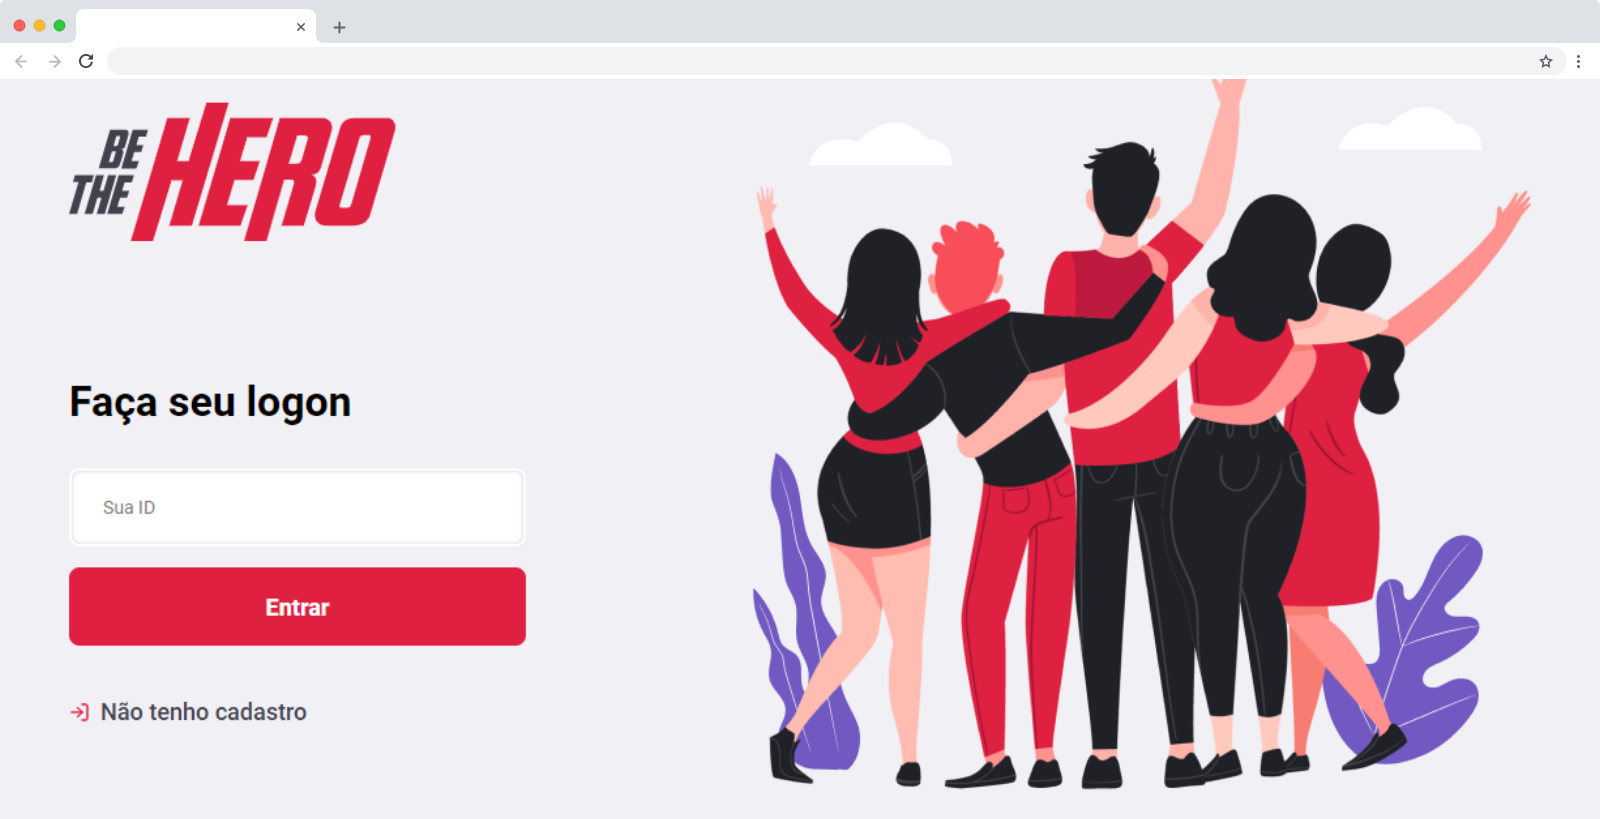
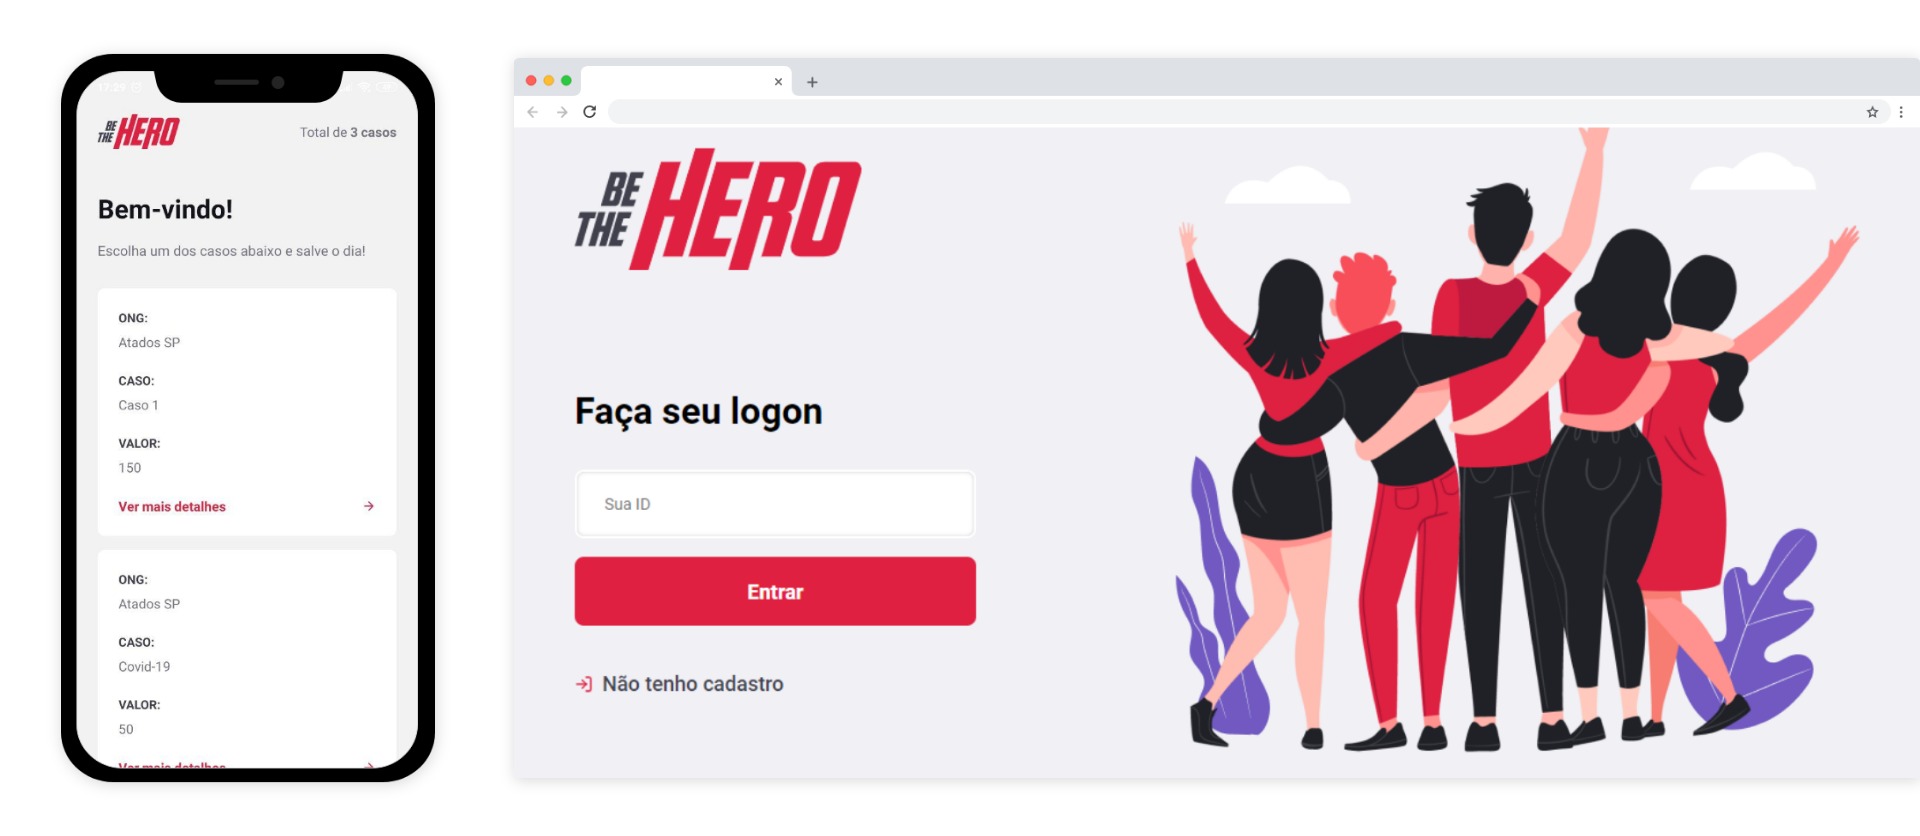
change mockup and add env to mobile

diff --git a/backend/knexfile.js b/backend/knexfile.js
@@ -1,47 +1,47 @@
 // Update with your config settings.
-const config = require("./src/config");
+const config = require('./src/config');
 
 module.exports = {
   development: {
-    client: "sqlite3",
+    client: 'sqlite3',
     connection: {
-      filename: "./src/database/db.sqlite"
+      filename: './src/database/db.sqlite'
     },
     migrations: {
-      directory: "./src/database/migrations"
+      directory: './src/database/migrations'
     },
     useNullAsDefault: true
   },
 
   test: {
-    client: "sqlite3",
+    client: 'sqlite3',
     connection: {
-      filename: "./src/database/test.sqlite"
+      filename: './src/database/test.sqlite'
     },
     migrations: {
-      directory: "./src/database/migrations"
+      directory: './src/database/migrations'
     },
     useNullAsDefault: true
   },
 
   staging: {
-    client: "postgresql",
+    client: 'postgresql',
     connection: {
-      database: "my_db",
-      user: "username",
-      password: "password"
+      database: 'my_db',
+      user: 'username',
+      password: 'password'
     },
     pool: {
       min: 2,
       max: 10
     },
     migrations: {
-      tableName: "knex_migrations"
+      tableName: 'knex_migrations'
     }
   },
 
   production: {
-    client: "postgresql",
+    client: 'postgresql',
     connection: {
       host: config.dbhost,
       database: config.dbname,
@@ -53,7 +53,7 @@ module.exports = {
       max: 10
     },
     migrations: {
-      directory: "./src/database/migrations"
+      directory: './src/database/migrations'
     }
   }
 };

diff --git a/mobile/babel.config.js b/mobile/babel.config.js
@@ -1,6 +1,9 @@
 module.exports = function(api) {
   api.cache(true);
   return {
-    presets: ['babel-preset-expo'],
+    presets: [
+      'module:metro-react-native-babel-preset',
+      'module:react-native-dotenv'
+    ]
   };
 };

diff --git a/mobile/src/services/api.js b/mobile/src/services/api.js
@@ -1,5 +1,5 @@
 import axios from 'axios';
-import { API_URL } from 'react-native-config';
+import { API_URL } from 'react-native-dotenv';
 const localIp = 'http://192.168.0.16:3333';
 
 const instance = axios.create({

diff --git a/backend/src/controllers/IncidentController.js b/backend/src/controllers/IncidentController.js
@@ -34,6 +34,7 @@ async function create(req, res) {
     value,
     ong_id
   });
+  console.log(id);
 
   return res.json({ id });
 }
